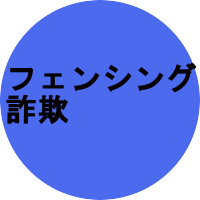
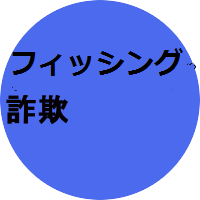
11月3日にmastaerに上げた最終ゲーム修正
ゲーム終了後に用語一覧を追加

Changed region(s): [[0.33, 0.24, 0.99, 0.48], [0.03, 0.24, 0.33, 0.45], [0.63, 0.24, 0.72, 0.3]]

diff --git a/yougo/yougoitiran.html b/yougo/yougoitiran.html
@@ -1,0 +1,58 @@
+<html>
+ <head>
+ <meta charset="utf-8">
+ <title>用語一覧</title>
+
+<script language="JavaScript">
+<!--
+function gazou(mySrc){
+document.myimg.src=mySrc;
+}
+//-->
+ </script>
+<center>
+  <A href="../multiple-dwr/WebContent/yougo.html">
+ <img src="rank.png" style="position:absolute;right:0px;top:130px;width:80px; height: 65px;"> </A>
+   <A href="JavaScript:void(0)"onMouseOver="gazou('a_0.png')">AAA</A>
+      <A href="JavaScript:void(0)"onMouseOver="gazou('a_1.png')">暗号化</A>
+         <A href="JavaScript:void(0)"onMouseOver="gazou('a_2.png')">アンチウイルスソフト</A>
+            <A href="JavaScript:void(0)"onMouseOver="gazou('a_3.png')">ウイルスバスター</A>
+               <A href="JavaScript:void(0)"onMouseOver="gazou('a_4.png')">改ざん</A>
+                  <A href="JavaScript:void(0)"onMouseOver="gazou('a_5.png')">架空請求メール</A>
+                     <A href="JavaScript:void(0)"onMouseOver="gazou('a_6.png')">クラッカー</A>
+                        <A href="JavaScript:void(0)"onMouseOver="gazou('a_7.png')">クラッキング</A>
+                           <A href="JavaScript:void(0)"onMouseOver="gazou('a_8.png')">ケルベロス</A>
+                              <A href="JavaScript:void(0)"onMouseOver="gazou('a_9.png')">サイバー攻撃</A>
+                                 <A href="JavaScript:void(0)"onMouseOver="gazou('a_10.png')">サイバーテロ</A>
+                                    <A href="JavaScript:void(0)"onMouseOver="gazou('a_11.png')">指紋認証</A>
+                                       <A href="JavaScript:void(0)"onMouseOver="gazou('a_12.png')">静脈認証</A>
+                                       <br>
+                                          <A href="JavaScript:void(0)"onMouseOver="gazou('a_13.png')">ショルダーハック</A>
+                                             <A href="JavaScript:void(0)"onMouseOver="gazou('a_14.png')">スパイウェア</A>
+                                                <A href="JavaScript:void(0)"onMouseOver="gazou('a_15.png')">SPAM</A>
+                                                   <A href="JavaScript:void(0)"onMouseOver="gazou('a_16.png')">ゾンビPC</A>
+                                                      <A href="JavaScript:void(0)"onMouseOver="gazou('a_17.png')">トロイの木馬</A>
+                                                         <A href="JavaScript:void(0)"onMouseOver="gazou('a_18.png')">ハッカー</A>
+                                                            <A href="JavaScript:void(0)"onMouseOver="gazou('a_19.png')">ハッキング</A>
+                                                               <A href="JavaScript:void(0)"onMouseOver="gazou('a_20.png')">なりすまし</A>
+                                                                  <A href="JavaScript:void(0)"onMouseOver="gazou('a_21.png')">ファイアーウォール</A>
+                                                                     <A href="JavaScript:void(0)"onMouseOver="gazou('a_22.png')">フィンシング詐欺</A>
+                                                                        <A href="JavaScript:void(0)"onMouseOver="gazou('a_23.png')">マクロウイルス</A>
+                                                                        <br>
+                                                                           <A href="JavaScript:void(0)"onMouseOver="gazou('a_24.png')">メール爆弾</A>
+
+                                                                              <A href="JavaScript:void(0)"onMouseOver="gazou('a_25.png')">ワーム</A>
+
+                                                                                 <A href="JavaScript:void(0)"onMouseOver="gazou('a_26.png')">フィンシング</A>
+                                                                                    <A href="JavaScript:void(0)"onMouseOver="gazou('a_27.png')">SMAP</A>
+                                                                                       <A href="JavaScript:void(0)"onMouseOver="gazou('a_28.png')">ショルダーバック</A>
+                                                                                          <A href="JavaScript:void(0)"onMouseOver="gazou('a_29.png')">ゾンビ</A>
+                                                                                             <A href="JavaScript:void(0)"onMouseOver="gazou('a_30.png')">LINE</A>
+                                                                                                <A href="JavaScript:void(0)"onMouseOver="gazou('a_31.png')">Twitter</A>
+                                                                                                   <A href="JavaScript:void(0)"onMouseOver="gazou('a_32.png')">EXILE</A>
+                                                                                                      <A href="JavaScript:void(0)"onMouseOver="gazou('a_33.png')">ウォーターフォール</A>
+                                                                                                         <A href="JavaScript:void(0)"onMouseOver="gazou('a_34.png')">ゴーストバスターズ</A>
+                                                                                                            <A href="JavaScript:void(0)"onMouseOver="gazou('a_35.png')">Face Book</A>
+<br></br>
+  <img name="myimg" src="a_36.png"style="position:absolute;right:0px;top:195px;height: 280;">
+  </center>

diff --git a/yougo/matoate.html b/yougo/matoate.html
@@ -1,4 +1,3 @@
-
 <html>
  <head>
  <meta charset="utf-8">
@@ -43,7 +42,7 @@ target.innerHTML="おめでとうございます。";
 target1.innerHTML="	あなたの正解数は"+seikai+"点";
 target2.innerHTML="ミスは"+mis+"点の";
 target3.innerHTML="合計"+game+"点です";
-
+target4.innerHTML="用語一覧を見てもらった後ランキング画面に行きますのでスコアを覚えておいてください";
 }
 }
      LIMIT_TIME -=PassSec;
@@ -253,7 +252,9 @@ clearInterval(timer6);
  </head>
  <div id="visi">
  <A href="../title/menu.html">
- <img src="menu.png" style="position:absolute;right:0px;top:130px;width:80px; height: 65px;"> </A>
+ <img src="menu.png" style="position:absolute;right:650px;top:130px;width:80px; height: 65px;"> </A>
+  <A href="yougoitiran.html">
+ <img src="yougo.png" style="position:absolute;right:450px;top:130px;width:80px; height: 65px;"> </A>
 </div>
 <div id="info">
     <div id="score" style="position:absolute;right:0px;top:100px;color: white; font-size: 20px; background-color: #000000; text-align: center; margin: 0 auto; width: 260px; height: 30px;">スコア:0</div>
@@ -271,7 +272,7 @@ clearInterval(timer6);
 
 
 <img src="waku.png" style="position:absolute;left:0px;top:0px;width:1090px; height: 645px; ">
-<img src="s_36.png" name="setumei" style="position:absolute;right:0px;top:195px;height: 20; ">
+<img src="s_36.png" name="setumei" style="position:absolute;right:0px;top:195px; ">
 <body bgcolor=" #FFE4B5 ">
  <style="background-color: black;>
 <p id="PassageArea"style="position:absolute;right:0px;top:70px;color: white; font-size: 20px; background-color: #000000; text-align: center; margin: 0 auto; width: 260px; height: 30px;">残り 60秒</p>

diff --git a/yougo/setumei.html b/yougo/setumei.html
@@ -2,24 +2,24 @@
 <html>
 <head>
 <meta charset="UTF-8">
-<title>用語当て</title>
+<title>タイピングゲーム</title>
 </head>
 <body bgcolor="#ccffcc">
 <center>
 
 <br>
 <br>
-<img src="setumei.png" style="position:absolute;left:450px;top:0px;width:400px; height: 450px; ">
+<img src="yougo se.png" style="position:absolute;left:350px;top:0px;width:700px; height: 550px; ">
 <a href="../title/menu.html">
-<img src="back.png"
+<img src="g_b_btn.png"
 style = "position:absolute ;left:750px;top:500px;width:100px; height: 50px; "
-onmousedown="this.src='back_ent.png'"
-onmouseout="this.src='back.png'">
+onmousedown="this.src='g_b_btn_ent.png'"
+onmouseout="this.src='g_b_btn.png'">
 <a href="matoate.html">
-<img src="start.png"
+<img src="st_btn.png"
 style = "position:absolute ;left:450px;top:500px;width:100px; height: 50px; "
-onmousedown="this.src='start_ent.png'"
-onmouseout="this.src='start.png'">
+onmousedown="this.src='st_btn_ent.png'"
+onmouseout="this.src='st_btn.png'">
 </center>
 </body>
 </html>
